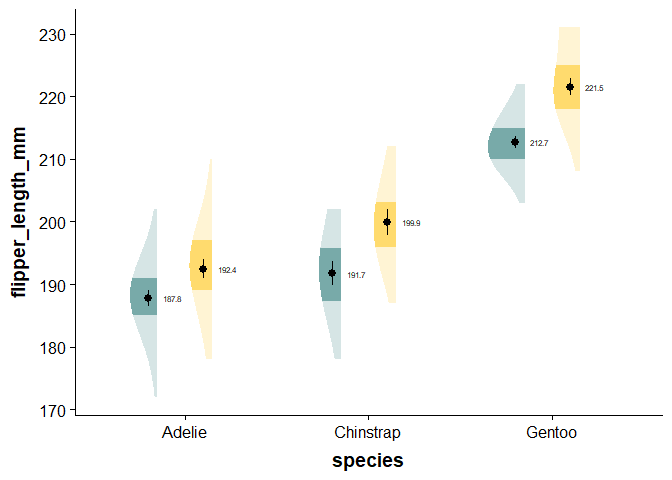
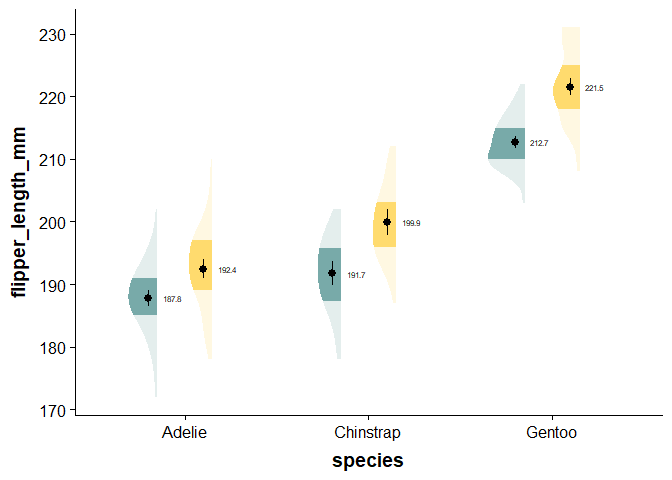
h

diff --git a/README.md b/README.md
@@ -296,14 +296,13 @@ ggplot(data = df,
            x = species,  # our grouping/independent/predictor variable
            fill = sex)) +  # our third grouping/independent/interaction variable
     ggdist::stat_slab(
-                     adjust = 2,
                      side = "left", 
                      scale = 0.4, 
                      show.legend = F, 
                      position = position_dodge(width = .6), 
                      .width = c(.50, 1),
                      aes(fill_ramp = after_stat(level))) +
-  ggdist::scale_fill_ramp_discrete(range = c(0.3, 1),
+  ggdist::scale_fill_ramp_discrete(range = c(0.2, 1),
                                    aesthetics = c("fill_ramp")) + 
       scale_colour_manual(values = nova_palette, 
                               aesthetics = c("fill")) +   
